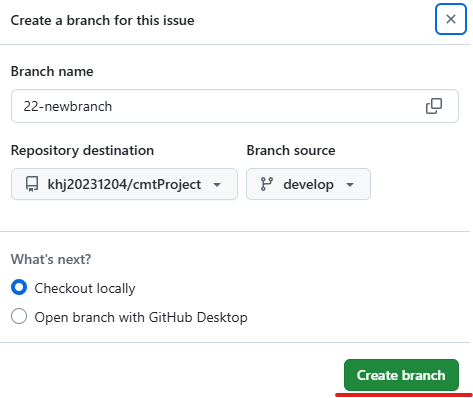
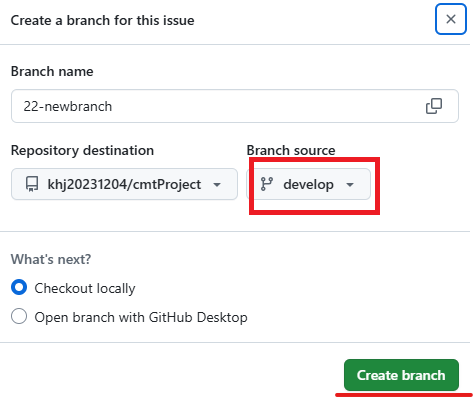
git project

Changed region(s): [[0.5032, 0.392, 0.8288, 0.5427]]

diff --git a/_posts/Git/2025-03-18-git-project.md b/_posts/Git/2025-03-18-git-project.md
@@ -8,9 +8,18 @@ tag: [github, 폴더]
 1. # project 
    GitHub Project는 이슈(Issues), 풀 리퀘스트(PR), 노트(Notes) 등을 관리하고, 팀 작업을 계획 및 추적할 수 있도록 도와주는 프로젝트 관리 도구입니다.   
 
-   1.프로젝트 생성   
+   프로젝트 생성 -> 브랜치 생성   
+
+   프로젝트 안에서 브랜치를 생성하면 브랜치의 상태에 따라 나눠지는 단계   
+   Todo (할 일) – 최초 브랜치가 생성된 단계, 아직 시작되지 않은 작업   
+   In Progress (진행 중) – 현재 작업이 진행 중인 항목   
+   Done (완료됨) – pull request가 완료되어 merge가 된 상태, 작업이 끝난 상태    
+   이렇게 3가지 단계로 나눠져서 이력이 추적됩니다.      
+
+   GitHub에서 프로젝트 생성   
    <img src="../../imgs/git/project_1.png" style="border:3px solid black;border-radius:9px;width:500px">   
 
+   Todo 하단에서 Add Item을 클릭하여 Todo리스트에 Item생성   
    <img src="../../imgs/git/project_2.png" style="border:3px solid black;border-radius:9px;width:500px">   
 
    <img src="../../imgs/git/project_3.png" style="border:3px solid black;border-radius:9px;width:500px">   
@@ -20,24 +29,32 @@ tag: [github, 폴더]
    <img src="../../imgs/git/project_5.png" style="border:3px solid black;border-radius:9px;width:500px">   
 
    <img src="../../imgs/git/project_6.png" style="border:3px solid black;border-radius:9px;width:500px">   
+   여기까지가 Todo에 Item을 생성하는 단계   
 
+   생성된 Item에서 Open in new tab 클릭   
    <img src="../../imgs/git/project_7.png" style="border:3px solid black;border-radius:9px;width:500px">   
 
+   오른쪽 메뉴에서 Create a branch를 선택하여 branch생성   
    <img src="../../imgs/git/project_8.png" style="border:3px solid black;border-radius:9px;width:500px">   
 
    <img src="../../imgs/git/project_9.png" style="border:3px solid black;border-radius:9px;width:500px">   
-   develop에 브랜치 생성   
+   develop에 생성될 브랜치를 만듦
 
    <img src="../../imgs/git/project_10.png" style="border:3px solid black;border-radius:9px;width:500px">   
+   생성된 블랜치를 메인화면에서 확인
 
-   여기까지가 github에사 하는 작업들   
+   __여기까지가 github에사 하는 작업들__    
+   
+   __이제부터는 STS4에서 하는 작업들__   
 
    1)github에서 새로운 리파지토리를 가져오는 경우   
    git clone -> 주소입력 -> 암호입력   
-   새로운 리파지토리를 가져오는 거면 바로 가져오면 된다.   
+   새로운 리파지토리를 가져오는 거면 바로 가져오면 됩니다.   
    
-   2)기존에 하던 작업이 있는 경우 기존 작업   
-   기존 작업을 commit -> branch에 기존 소스를 병합 -> github에서 pull request에 목록이 나타남 -> file에서 approve 승인 후 develop에 병합 후 __다시 브랜치 생성__ -> __develop 브랜치에서 pull__ -> 생성된 브랜치로 변경
+   2)기존에 하던 작업이 있는 경우    
+   기존 작업을 commit하고 push하여 develop 저장 -> github의 pull request에 목록이 나타남 -> file에서 approve 승인 후 develop에 병합 -> project에서 __다시 브랜치 생성__ -> __develop__ 브랜치에서 pull -> 생성된 브랜치로 변경   
+
+   *로컬에 A, B 파일이 있고, 원격(GitHub)에는 A, C 파일이 존재하는 경우 git push를 하면 원격에 A,B,C파일이 생성됨. __push하면 없는 파일만 추가 됨.__   
 
    기존에 있던 작업 commit -> push   
    <img src="../../imgs/git/project_11.png" style="border:3px solid black;border-radius:9px;width:500px">   
@@ -75,7 +92,7 @@ tag: [github, 폴더]
    Remote Tracking 목록에서 새로 생성한 branch선택   
    <img src="../../imgs/git/project_21.png" style="border:3px solid black;border-radius:9px;width:500px">   
 
-   Check oput as New Local Branch선택   
+   Check oput as New Local branch   
    <img src="../../imgs/git/project_22.png" style="border:3px solid black;border-radius:9px;width:500px">   
 
    finish선택   

diff --git a/_posts/JPA/2025-03-13-JPA-itwill_basic.md b/_posts/JPA/2025-03-13-JPA-itwill_basic.md
@@ -1,0 +1,16 @@
+---
+layout: single
+title: JPA - 기본 환경경
+categories: JPA
+tab: []
+---
+
+1. # 설명
+   1)@Table 어노테이션 생략 시 클래스명이 테이블 명   
+   @Table(name = "Test")    
+   => @Table 어노테이션 생략 시 클래스명을 기반으로 동일한 이름으로 테이블 생성됨   
+
+   2)기본 생성자는 필수   
+   @NoArgsConstructor(access = AccessLevel.PROTECTED) //엔티티 클래스 정의 시 기본 생성자 필수   
+
+   

diff --git a/_posts/JPA/2025-02-23-JPA-jpql.md b/_posts/JPA/2025-02-23-JPA-jpql.md
@@ -11,12 +11,9 @@ tab: []
    JPQL은 결국 SQL로 변환된다.   
 
 1. # 예제
-   <img src="../../imgs/jpa/jpql_1.png" style="border:3px solid black;border-radius:9px;width:600px">   
-      
+   <img src="../../imgs/jpa/jpql_1.png" style="border:3px solid black;border-radius:9px;width:600px">    
       
    <img src="../../imgs/jpa/jpql_2.png" style="border:3px solid black;border-radius:9px;width:600px">   
-
-   
 
 1. # JPQL문법
    ```
